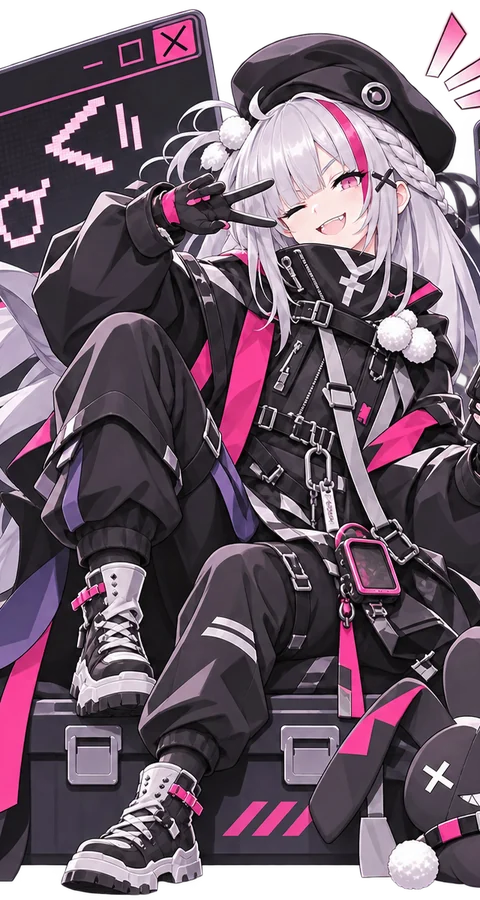
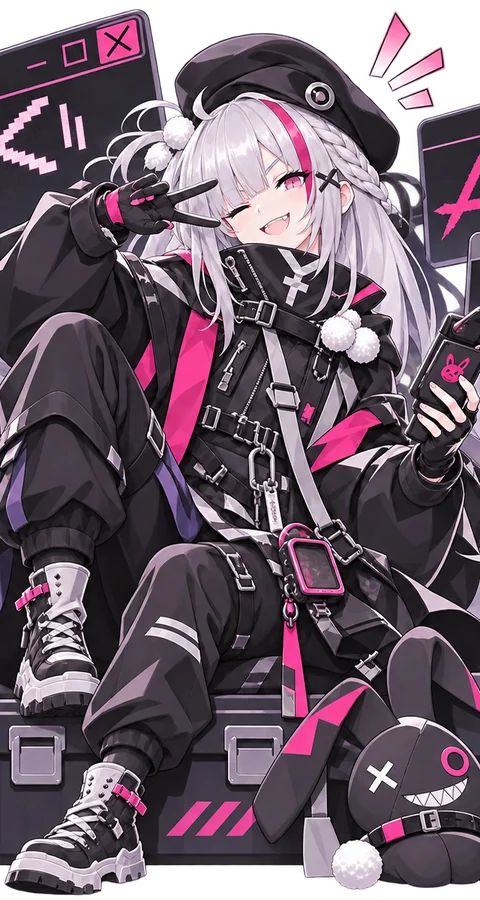
kuroki face adjustment

diff --git a/docs/asset-manifest.js b/docs/asset-manifest.js
@@ -1,2 +1,2 @@
 /* Generated media assets manifest. */
-window.RPG_ASSET_MANIFEST = Object.freeze({"assets/backgrounds/mode-select.webp":{"bytes":378740,"hash":"d1fe7bafb1af"},"assets/boss_hit.m4a":{"bytes":9095,"hash":"e10f92a1c1ca"},"assets/bosses/amethyst-bg.webp":{"bytes":672656,"hash":"e0fff5a359ba"},"assets/bosses/amethyst.webp":{"bytes":270280,"hash":"f54c5364d9aa"},"assets/bosses/carapax-bg.webp":{"bytes":648330,"hash":"6891bb71b05d"},"assets/bosses/carapax.webp":{"bytes":177726,"hash":"bcb518d2b937"},"assets/bosses/ourox-bg.webp":{"bytes":623516,"hash":"f021f2298dec"},"assets/bosses/ourox.webp":{"bytes":225664,"hash":"a54e6c9958cc"},"assets/bosses/practice-bg.webp":{"bytes":153438,"hash":"3945418f2ab3"},"assets/bosses/practice.webp":{"bytes":202430,"hash":"46c9a1df9bc6"},"assets/bosses/sirocco-bg.webp":{"bytes":560602,"hash":"296f1bd23c27"},"assets/bosses/sirocco.webp":{"bytes":288292,"hash":"df37612c3173"},"assets/bosses/sporemaw-bg.webp":{"bytes":824250,"hash":"8b6f7f5a3413"},"assets/bosses/sporemaw.webp":{"bytes":215968,"hash":"33574a55bc5c"},"assets/bosses/tutorial-bg.webp":{"bytes":194212,"hash":"27f355bafc81"},"assets/bosses/tutorial.webp":{"bytes":159946,"hash":"c6bbf3409180"},"assets/card_themes/crimson.webp":{"bytes":38572,"hash":"5be48850718b"},"assets/card_themes/forest.webp":{"bytes":39694,"hash":"7eab83e086c8"},"assets/card_themes/navy.webp":{"bytes":36980,"hash":"7030992ba690"},"assets/card_themes/violet.webp":{"bytes":44098,"hash":"f17d39411803"},"assets/characters/mc.webp":{"bytes":89040,"hash":"c2e8b1f629ab"},"assets/deployment/alden.webp":{"bytes":59386,"hash":"a123491e6bdc"},"assets/deployment/anodyne.webp":{"bytes":75696,"hash":"668d8d7c33fb"},"assets/deployment/aveline.webp":{"bytes":132064,"hash":"b1671317edda"},"assets/deployment/cassian.webp":{"bytes":149982,"hash":"2b0d99dfcd49"},"assets/deployment/crossbow.webp":{"bytes":94458,"hash":"cb7b3d05b752"},"assets/deployment/elise.webp":{"bytes":71700,"hash":"0144be119cdd"},"assets/deployment/hexaxe.webp":{"bytes":119120,"hash":"493720685c69"},"assets/deployment/hound.webp":{"bytes":143986,"hash":"2a1cd427ac30"},"assets/deployment/isolde.webp":{"bytes":109082,"hash":"2f5cd9a57654"},"assets/deployment/kade.webp":{"bytes":50310,"hash":"c9a33ca89aba"},"assets/deployment/kurone.webp":{"bytes":116956,"hash":"97053cfcad8d"},"assets/deployment/livia.webp":{"bytes":71206,"hash":"5f47b63bb5e6"},"assets/deployment/lupa.webp":{"bytes":167628,"hash":"ef524363c1bf"},"assets/deployment/mira.webp":{"bytes":81046,"hash":"a14520b77df5"},"assets/deployment/nitrate.webp":{"bytes":122822,"hash":"98a760e59279"},"assets/deployment/nora.webp":{"bytes":75908,"hash":"28c5ca9ec6bd"},"assets/deployment/seraphine.webp":{"bytes":104458,"hash":"9661549b1d3a"},"assets/deployment/shield.webp":{"bytes":78518,"hash":"aec60021e8b9"},"assets/deployment/tavi.webp":{"bytes":171974,"hash":"b2c79579386a"},"assets/deployment/vern.webp":{"bytes":60412,"hash":"a1322a73ed31"},"assets/deployment/vex.webp":{"bytes":65032,"hash":"3c4dad6663eb"},"assets/emblems/rift.webp":{"bytes":73766,"hash":"cd3e0fa42787"},"assets/emblems/valcrest.webp":{"bytes":69484,"hash":"8ee38f99d24c"},"assets/emblems/vesper.webp":{"bytes":67698,"hash":"b10819ae0fbb"},"assets/player_hit.m4a":{"bytes":9747,"hash":"96cdd53a2246"},"assets/profile-icons/alden.webp":{"bytes":23276,"hash":"70378cef807f"},"assets/profile-icons/anodyne.webp":{"bytes":35250,"hash":"5829fcd035a3"},"assets/profile-icons/aveline.webp":{"bytes":38126,"hash":"e761cd5bbdba"},"assets/profile-icons/cassian.webp":{"bytes":34184,"hash":"60fa7942a678"},"assets/profile-icons/crossbow.webp":{"bytes":126392,"hash":"4774ce058032"},"assets/profile-icons/elise.webp":{"bytes":31226,"hash":"30ed08254db5"},"assets/profile-icons/hexaxe.webp":{"bytes":35304,"hash":"aaad1295b4a0"},"assets/profile-icons/hound.webp":{"bytes":38700,"hash":"328a20c587bc"},"assets/profile-icons/isolde.webp":{"bytes":40086,"hash":"8fb794950e64"},"assets/profile-icons/kade.webp":{"bytes":19370,"hash":"3c0d04cfb439"},"assets/profile-icons/kurone.webp":{"bytes":21198,"hash":"9e4030de8e32"},"assets/profile-icons/livia.webp":{"bytes":25868,"hash":"e5effd075f8b"},"assets/profile-icons/lupa.webp":{"bytes":44836,"hash":"3044521d2981"},"assets/profile-icons/mc.webp":{"bytes":17150,"hash":"a54fd159b470"},"assets/profile-icons/mira.webp":{"bytes":35536,"hash":"9466107c0981"},"assets/profile-icons/nitrate.webp":{"bytes":61118,"hash":"9783de617fcc"},"assets/profile-icons/nora.webp":{"bytes":32130,"hash":"e6c6b90736e9"},"assets/profile-icons/seraphine.webp":{"bytes":32156,"hash":"8a5cf8bd2f34"},"assets/profile-icons/shield.webp":{"bytes":44740,"hash":"7a119c6f9bea"},"assets/profile-icons/tavi.webp":{"bytes":45416,"hash":"2d52fe924ee0"},"assets/profile-icons/vern.webp":{"bytes":24004,"hash":"d22e30124b52"},"assets/profile-icons/vex.webp":{"bytes":22430,"hash":"c5be6b3df3df"},"assets/recruitment/alden.webp":{"bytes":142256,"hash":"142c6775df71"},"assets/recruitment/anodyne.webp":{"bytes":201626,"hash":"f31b87184620"},"assets/recruitment/aveline.webp":{"bytes":330296,"hash":"bc709b98fe8f"},"assets/recruitment/cassian.webp":{"bytes":509752,"hash":"92817e48f9e5"},"assets/recruitment/crossbow.webp":{"bytes":272598,"hash":"6d109b9d152a"},"assets/recruitment/elise.webp":{"bytes":160944,"hash":"f066868e74bc"},"assets/recruitment/hexaxe.webp":{"bytes":399796,"hash":"6b09c21bcf66"},"assets/recruitment/hound.webp":{"bytes":490756,"hash":"5a6e7427ff8a"},"assets/recruitment/isolde.webp":{"bytes":249770,"hash":"8a34c5752d32"},"assets/recruitment/kade.webp":{"bytes":111058,"hash":"0c9e4fef856b"},"assets/recruitment/kurone.webp":{"bytes":334716,"hash":"195e541e4b73"},"assets/recruitment/livia.webp":{"bytes":167094,"hash":"06e360fb668c"},"assets/recruitment/lupa.webp":{"bytes":681758,"hash":"c439cac6227a"},"assets/recruitment/mira.webp":{"bytes":185866,"hash":"4a7a8e63a9d1"},"assets/recruitment/nitrate.webp":{"bytes":1248524,"hash":"1997db2ececf"},"assets/recruitment/nora.webp":{"bytes":166208,"hash":"4e05900aaf9c"},"assets/recruitment/seraphine.webp":{"bytes":241596,"hash":"3d0aa01b33b4"},"assets/recruitment/shield.webp":{"bytes":253572,"hash":"048df55a7f22"},"assets/recruitment/tavi.webp":{"bytes":638140,"hash":"cb84820bd756"},"assets/recruitment/vern.webp":{"bytes":141034,"hash":"9a7aef4dd496"},"assets/recruitment/vex.webp":{"bytes":148842,"hash":"65dcb1d83123"},"assets/stickers/kurone-angry.webp":{"bytes":35112,"hash":"250f1b562090"},"icon01.webp":{"bytes":37136,"hash":"ec498bbc53cb"},"icon02.webp":{"bytes":30516,"hash":"ad7209abc5fd"},"story/audio/ch1-battle.webm":{"bytes":1207103,"hash":"4db1352aabc6"},"story/images/banner-rift.webp":{"bytes":388014,"hash":"fd3fbc8292ec"},"story/images/banner-valcrest.webp":{"bytes":401088,"hash":"9123ef23bbfc"},"story/images/banner-vesper.webp":{"bytes":311414,"hash":"946877314246"},"story/images/conquest-world.webp":{"bytes":409166,"hash":"b4b67894523b"},"story/images/map-placeholder.svg":{"bytes":2766,"hash":"3a3612d98fd7"},"story/images/placeholder-01.svg":{"bytes":761,"hash":"32eb46f43d05"},"story/images/placeholder-02.svg":{"bytes":761,"hash":"7a7fc63d15fc"},"story/images/placeholder-03.svg":{"bytes":761,"hash":"e912d7380321"},"story/images/placeholder-04.svg":{"bytes":761,"hash":"869c68b6d95d"}});
+window.RPG_ASSET_MANIFEST = Object.freeze({"assets/backgrounds/mode-select.webp":{"bytes":378740,"hash":"d1fe7bafb1af"},"assets/boss_hit.m4a":{"bytes":9095,"hash":"e10f92a1c1ca"},"assets/bosses/amethyst-bg.webp":{"bytes":672656,"hash":"e0fff5a359ba"},"assets/bosses/amethyst.webp":{"bytes":270280,"hash":"f54c5364d9aa"},"assets/bosses/carapax-bg.webp":{"bytes":648330,"hash":"6891bb71b05d"},"assets/bosses/carapax.webp":{"bytes":177726,"hash":"bcb518d2b937"},"assets/bosses/ourox-bg.webp":{"bytes":623516,"hash":"f021f2298dec"},"assets/bosses/ourox.webp":{"bytes":225664,"hash":"a54e6c9958cc"},"assets/bosses/practice-bg.webp":{"bytes":153438,"hash":"3945418f2ab3"},"assets/bosses/practice.webp":{"bytes":202430,"hash":"46c9a1df9bc6"},"assets/bosses/sirocco-bg.webp":{"bytes":560602,"hash":"296f1bd23c27"},"assets/bosses/sirocco.webp":{"bytes":288292,"hash":"df37612c3173"},"assets/bosses/sporemaw-bg.webp":{"bytes":824250,"hash":"8b6f7f5a3413"},"assets/bosses/sporemaw.webp":{"bytes":215968,"hash":"33574a55bc5c"},"assets/bosses/tutorial-bg.webp":{"bytes":194212,"hash":"27f355bafc81"},"assets/bosses/tutorial.webp":{"bytes":159946,"hash":"c6bbf3409180"},"assets/card_themes/crimson.webp":{"bytes":38572,"hash":"5be48850718b"},"assets/card_themes/forest.webp":{"bytes":39694,"hash":"7eab83e086c8"},"assets/card_themes/navy.webp":{"bytes":36980,"hash":"7030992ba690"},"assets/card_themes/violet.webp":{"bytes":44098,"hash":"f17d39411803"},"assets/characters/mc.webp":{"bytes":89040,"hash":"c2e8b1f629ab"},"assets/deployment/alden.webp":{"bytes":59386,"hash":"a123491e6bdc"},"assets/deployment/anodyne.webp":{"bytes":75696,"hash":"668d8d7c33fb"},"assets/deployment/aveline.webp":{"bytes":132064,"hash":"b1671317edda"},"assets/deployment/cassian.webp":{"bytes":149982,"hash":"2b0d99dfcd49"},"assets/deployment/crossbow.webp":{"bytes":94458,"hash":"cb7b3d05b752"},"assets/deployment/elise.webp":{"bytes":71700,"hash":"0144be119cdd"},"assets/deployment/hexaxe.webp":{"bytes":119120,"hash":"493720685c69"},"assets/deployment/hound.webp":{"bytes":143986,"hash":"2a1cd427ac30"},"assets/deployment/isolde.webp":{"bytes":109082,"hash":"2f5cd9a57654"},"assets/deployment/kade.webp":{"bytes":50310,"hash":"c9a33ca89aba"},"assets/deployment/kurone.webp":{"bytes":121944,"hash":"104e81598303"},"assets/deployment/livia.webp":{"bytes":71206,"hash":"5f47b63bb5e6"},"assets/deployment/lupa.webp":{"bytes":167628,"hash":"ef524363c1bf"},"assets/deployment/mira.webp":{"bytes":81046,"hash":"a14520b77df5"},"assets/deployment/nitrate.webp":{"bytes":122822,"hash":"98a760e59279"},"assets/deployment/nora.webp":{"bytes":75908,"hash":"28c5ca9ec6bd"},"assets/deployment/seraphine.webp":{"bytes":104458,"hash":"9661549b1d3a"},"assets/deployment/shield.webp":{"bytes":78518,"hash":"aec60021e8b9"},"assets/deployment/tavi.webp":{"bytes":171974,"hash":"b2c79579386a"},"assets/deployment/vern.webp":{"bytes":60412,"hash":"a1322a73ed31"},"assets/deployment/vex.webp":{"bytes":65032,"hash":"3c4dad6663eb"},"assets/emblems/rift.webp":{"bytes":73766,"hash":"cd3e0fa42787"},"assets/emblems/valcrest.webp":{"bytes":69484,"hash":"8ee38f99d24c"},"assets/emblems/vesper.webp":{"bytes":67698,"hash":"b10819ae0fbb"},"assets/player_hit.m4a":{"bytes":9747,"hash":"96cdd53a2246"},"assets/profile-icons/alden.webp":{"bytes":23276,"hash":"70378cef807f"},"assets/profile-icons/anodyne.webp":{"bytes":35250,"hash":"5829fcd035a3"},"assets/profile-icons/aveline.webp":{"bytes":38126,"hash":"e761cd5bbdba"},"assets/profile-icons/cassian.webp":{"bytes":34184,"hash":"60fa7942a678"},"assets/profile-icons/crossbow.webp":{"bytes":126392,"hash":"4774ce058032"},"assets/profile-icons/elise.webp":{"bytes":31226,"hash":"30ed08254db5"},"assets/profile-icons/hexaxe.webp":{"bytes":35304,"hash":"aaad1295b4a0"},"assets/profile-icons/hound.webp":{"bytes":38700,"hash":"328a20c587bc"},"assets/profile-icons/isolde.webp":{"bytes":40086,"hash":"8fb794950e64"},"assets/profile-icons/kade.webp":{"bytes":19370,"hash":"3c0d04cfb439"},"assets/profile-icons/kurone.webp":{"bytes":21898,"hash":"8313b51eb3e6"},"assets/profile-icons/livia.webp":{"bytes":25868,"hash":"e5effd075f8b"},"assets/profile-icons/lupa.webp":{"bytes":44836,"hash":"3044521d2981"},"assets/profile-icons/mc.webp":{"bytes":17150,"hash":"a54fd159b470"},"assets/profile-icons/mira.webp":{"bytes":35536,"hash":"9466107c0981"},"assets/profile-icons/nitrate.webp":{"bytes":61118,"hash":"9783de617fcc"},"assets/profile-icons/nora.webp":{"bytes":32130,"hash":"e6c6b90736e9"},"assets/profile-icons/seraphine.webp":{"bytes":32156,"hash":"8a5cf8bd2f34"},"assets/profile-icons/shield.webp":{"bytes":44740,"hash":"7a119c6f9bea"},"assets/profile-icons/tavi.webp":{"bytes":45416,"hash":"2d52fe924ee0"},"assets/profile-icons/vern.webp":{"bytes":24004,"hash":"d22e30124b52"},"assets/profile-icons/vex.webp":{"bytes":22430,"hash":"c5be6b3df3df"},"assets/recruitment/alden.webp":{"bytes":142256,"hash":"142c6775df71"},"assets/recruitment/anodyne.webp":{"bytes":201626,"hash":"f31b87184620"},"assets/recruitment/aveline.webp":{"bytes":330296,"hash":"bc709b98fe8f"},"assets/recruitment/cassian.webp":{"bytes":509752,"hash":"92817e48f9e5"},"assets/recruitment/crossbow.webp":{"bytes":272598,"hash":"6d109b9d152a"},"assets/recruitment/elise.webp":{"bytes":160944,"hash":"f066868e74bc"},"assets/recruitment/hexaxe.webp":{"bytes":399796,"hash":"6b09c21bcf66"},"assets/recruitment/hound.webp":{"bytes":490756,"hash":"5a6e7427ff8a"},"assets/recruitment/isolde.webp":{"bytes":249770,"hash":"8a34c5752d32"},"assets/recruitment/kade.webp":{"bytes":111058,"hash":"0c9e4fef856b"},"assets/recruitment/kurone.webp":{"bytes":334716,"hash":"195e541e4b73"},"assets/recruitment/livia.webp":{"bytes":167094,"hash":"06e360fb668c"},"assets/recruitment/lupa.webp":{"bytes":681758,"hash":"c439cac6227a"},"assets/recruitment/mira.webp":{"bytes":185866,"hash":"4a7a8e63a9d1"},"assets/recruitment/nitrate.webp":{"bytes":1248524,"hash":"1997db2ececf"},"assets/recruitment/nora.webp":{"bytes":166208,"hash":"4e05900aaf9c"},"assets/recruitment/seraphine.webp":{"bytes":241596,"hash":"3d0aa01b33b4"},"assets/recruitment/shield.webp":{"bytes":253572,"hash":"048df55a7f22"},"assets/recruitment/tavi.webp":{"bytes":638140,"hash":"cb84820bd756"},"assets/recruitment/vern.webp":{"bytes":141034,"hash":"9a7aef4dd496"},"assets/recruitment/vex.webp":{"bytes":148842,"hash":"65dcb1d83123"},"assets/stickers/kurone-angry.webp":{"bytes":35112,"hash":"250f1b562090"},"icon01.webp":{"bytes":37136,"hash":"ec498bbc53cb"},"icon02.webp":{"bytes":30516,"hash":"ad7209abc5fd"},"story/audio/ch1-battle.webm":{"bytes":1207103,"hash":"4db1352aabc6"},"story/images/banner-rift.webp":{"bytes":388014,"hash":"fd3fbc8292ec"},"story/images/banner-valcrest.webp":{"bytes":401088,"hash":"9123ef23bbfc"},"story/images/banner-vesper.webp":{"bytes":311414,"hash":"946877314246"},"story/images/conquest-world.webp":{"bytes":409166,"hash":"b4b67894523b"},"story/images/map-placeholder.svg":{"bytes":2766,"hash":"3a3612d98fd7"},"story/images/placeholder-01.svg":{"bytes":761,"hash":"32eb46f43d05"},"story/images/placeholder-02.svg":{"bytes":761,"hash":"7a7fc63d15fc"},"story/images/placeholder-03.svg":{"bytes":761,"hash":"e912d7380321"},"story/images/placeholder-04.svg":{"bytes":761,"hash":"869c68b6d95d"}});

diff --git a/docs/collection.js b/docs/collection.js
@@ -11,7 +11,7 @@
  const esc=s=>String(s??'').replace(/[&<>"']/g,c=>({'&':'&amp;','<':'&lt;','>':'&gt;','"':'&quot;',"'":'&#39;'}[c]));
  const safeId=s=>typeof s==='string'&&/^[a-z][a-z0-9_]{0,39}$/.test(s);
  // Face centres [x%, y%] in the 480×900 deployment art (same values as the recruitment lineup).
- const FACE={alden:[45.2,10.7],anodyne:[46.7,9.0],aveline:[59.8,10.2],cassian:[59.4,19.9],crossbow:[51.2,10.7],elise:[48.5,12.2],hexaxe:[51.7,10.0],hound:[65.2,33.7],isolde:[50.6,14.3],kade:[49.4,10.0],livia:[44.2,14.7],lupa:[79.2,20.0],mira:[51.7,10.2],nitrate:[40.8,19.7],nora:[48.1,12.4],seraphine:[57.3,9.9],shield:[38.5,12.2],tavi:[52.5,21.3],vern:[39.8,15.9],vex:[56.2,9.7],kurone:[49.5,22.1]};
+ const FACE={alden:[45.2,10.7],anodyne:[46.7,9.0],aveline:[59.8,10.2],cassian:[59.4,19.9],crossbow:[51.2,10.7],elise:[48.5,12.2],hexaxe:[51.7,10.0],hound:[65.2,33.7],isolde:[50.6,14.3],kade:[49.4,10.0],livia:[44.2,14.7],lupa:[79.2,20.0],mira:[51.7,10.2],nitrate:[40.8,19.7],nora:[48.1,12.4],seraphine:[57.3,9.9],shield:[38.5,12.2],tavi:[52.5,21.3],vern:[39.8,15.9],vex:[56.2,9.7],kurone:[55.0,22.8]};
  const NAMES=['NONE','WHITE','AZURE','VIOLET','GOLD'];
  let player=null,code='',catalog=[],filter='all',ownedOnly=false,current=-1,lastFocus=null,openId='',working=false,armed=-1,armTimer=0,hover=null;
  const JP=['なし','白光','蒼光','紫光','金光'];

diff --git a/docs/recruitment-reveal.js b/docs/recruitment-reveal.js
@@ -17,7 +17,7 @@
  // Lineup cards use the portrait full-body art (assets/deployment, 480×900). Face centres
  // [x%, y%] were measured by matching each profile-icon portrait against that art, so the
  // crop can always keep the face in view. Characters not listed fall back to [50, 14].
- const FACE={alden:[45.2,10.7],anodyne:[46.7,9.0],aveline:[59.8,10.2],cassian:[59.4,19.9],crossbow:[51.2,10.7],elise:[48.5,12.2],hexaxe:[51.7,10.0],hound:[65.2,33.7],isolde:[50.6,14.3],kade:[49.4,10.0],livia:[44.2,14.7],lupa:[79.2,20.0],mira:[51.7,10.2],nitrate:[40.8,19.7],nora:[48.1,12.4],seraphine:[57.3,9.9],shield:[38.5,12.2],tavi:[52.5,21.3],vern:[39.8,15.9],vex:[56.2,9.7],kurone:[49.5,22.1]};
+ const FACE={alden:[45.2,10.7],anodyne:[46.7,9.0],aveline:[59.8,10.2],cassian:[59.4,19.9],crossbow:[51.2,10.7],elise:[48.5,12.2],hexaxe:[51.7,10.0],hound:[65.2,33.7],isolde:[50.6,14.3],kade:[49.4,10.0],livia:[44.2,14.7],lupa:[79.2,20.0],mira:[51.7,10.2],nitrate:[40.8,19.7],nora:[48.1,12.4],seraphine:[57.3,9.9],shield:[38.5,12.2],tavi:[52.5,21.3],vern:[39.8,15.9],vex:[56.2,9.7],kurone:[55.0,22.8]};
  const faceOf=id=>FACE[id]||[50,14];
  const deployArt=id=>/^[a-z][a-z0-9_]{0,39}$/.test(id)&&id!=='unknown'?`assets/deployment/${id}.webp`:null;
  const safeArt=p=>typeof p==='string'&&/^assets\/recruitment\/[a-z0-9_-]+\.webp$/.test(p);

diff --git a/docs/collection.html b/docs/collection.html
@@ -40,5 +40,5 @@
  <div class="cl-d-nav"><button type="button" class="cl-d-btn" data-step="-1" aria-label="Previous operator"><svg viewBox="0 0 24 24" aria-hidden="true"><path d="M15 5l-7 7 7 7"/></svg></button><span id="dIndex">1 / 1</span><button type="button" class="cl-d-btn" data-step="1" aria-label="Next operator"><svg viewBox="0 0 24 24" aria-hidden="true"><path d="M9 5l7 7-7 7"/></svg></button></div>
 </section>
 
-<script src="student-links-v86.js?v=86" defer></script><script src="gacha-catalog.js?v=106.0"></script><script src="operator-passives.js?v=147.0"></script><script src="aura-core.js?v=148.6"></script><script src="aura-fx.js?v=2"></script><script type="module">await import('./online-spark.js?v=148.9');const s=document.createElement('script');s.src='collection.js?v=6';document.body.append(s);</script>
+<script src="student-links-v86.js?v=86" defer></script><script src="gacha-catalog.js?v=106.0"></script><script src="operator-passives.js?v=147.0"></script><script src="aura-core.js?v=148.6"></script><script src="aura-fx.js?v=2"></script><script type="module">await import('./online-spark.js?v=148.9');const s=document.createElement('script');s.src='collection.js?v=7';document.body.append(s);</script>
 </body></html>

diff --git a/docs/battle-fx.js b/docs/battle-fx.js
@@ -10,7 +10,7 @@
   const reduced=()=>!!window.matchMedia?.('(prefers-reduced-motion: reduce)')?.matches;
   const RULES=()=>window.RPG_OPERATOR_PASSIVES?.RULES||{};
   // Face points (percent of deployment art) used to frame 6★ cut-ins.
-  const FACE={alden:[45.2,10.7],anodyne:[46.7,9.0],aveline:[59.8,10.2],cassian:[59.4,19.9],crossbow:[51.2,10.7],elise:[48.5,12.2],hexaxe:[51.7,10.0],hound:[65.2,33.7],isolde:[50.6,14.3],kade:[49.4,10.0],livia:[44.2,14.7],lupa:[79.2,20.0],mira:[51.7,10.2],nitrate:[40.8,19.7],nora:[48.1,12.4],seraphine:[57.3,9.9],shield:[38.5,12.2],tavi:[52.5,21.3],vern:[39.8,15.9],vex:[56.2,9.7],kurone:[49.5,22.1]};
+  const FACE={alden:[45.2,10.7],anodyne:[46.7,9.0],aveline:[59.8,10.2],cassian:[59.4,19.9],crossbow:[51.2,10.7],elise:[48.5,12.2],hexaxe:[51.7,10.0],hound:[65.2,33.7],isolde:[50.6,14.3],kade:[49.4,10.0],livia:[44.2,14.7],lupa:[79.2,20.0],mira:[51.7,10.2],nitrate:[40.8,19.7],nora:[48.1,12.4],seraphine:[57.3,9.9],shield:[38.5,12.2],tavi:[52.5,21.3],vern:[39.8,15.9],vex:[56.2,9.7],kurone:[55.0,22.8]};
   // 4★ operators (and the default character) share the standard strike.
   const THEMES={
     std:      {kind:'std',     c1:'#2cc5f6',c2:'#eafcff',c3:'#0b5f86',bg:'#06202c',band:'#06202c'},

diff --git a/docs/who-am-i.html b/docs/who-am-i.html
@@ -13,7 +13,7 @@
 <link rel="preload" as="image" href="assets/bosses/tutorial-bg.webp">
 <link rel="preload" as="image" href="assets/bosses/tutorial.webp">
 <link rel="preload" as="font" type="font/woff2" href="assets/fonts/ak-roboto-var.woff2" crossorigin>
-<script src="battle-fx.js?v=3" defer></script><script src="kurone-notify.js?v=2" defer></script><script src="aura-fx.js?v=2" defer></script><script src="operator-passives.js?v=147.0"></script><script src="gacha-catalog.js?v=106.0"></script></head>
+<script src="battle-fx.js?v=4" defer></script><script src="kurone-notify.js?v=2" defer></script><script src="aura-fx.js?v=2" defer></script><script src="operator-passives.js?v=147.0"></script><script src="gacha-catalog.js?v=106.0"></script></head>
 <body class="adventure-client tutorial-client tutorial-battle wai-page story-squad-layout">
 <div id="loading" class="tutorial-loading">CONNECTING TO FIREBASE…</div>
 <div class="frame pixel" id="tutorialApp" hidden>

diff --git a/docs/adventure.html b/docs/adventure.html
@@ -1771,7 +1771,7 @@ width:min(600px, calc(100% - 30px));
 <link rel="stylesheet" href="battle-fx.css?v=4">
 <link rel="stylesheet" href="battle-marks.css?v=1"><link rel="stylesheet" href="kurone.css?v=3">
 <link rel="stylesheet" href="aura-fx.css?v=3">
-<script src="battle-fx.js?v=3" defer></script><script src="kurone-notify.js?v=2" defer></script>
+<script src="battle-fx.js?v=4" defer></script><script src="kurone-notify.js?v=2" defer></script>
 <script src="aura-fx.js?v=2" defer></script>
 <link rel="preload" as="image" href="assets/backgrounds/mode-select.webp">
 <link rel="preload" as="font" type="font/woff2" href="assets/fonts/ak-roboto-var.woff2" crossorigin>

diff --git a/docs/recruitment.html b/docs/recruitment.html
@@ -77,7 +77,7 @@
   <script src="student-links-v86.js?v=86.10" defer></script>
   <script src="recruitment-banner-config.js?v=148.9"></script>
   <link rel="stylesheet" href="aura-fx.css?v=3"><script src="aura-fx.js?v=2"></script>
-  <script src="recruitment-reveal.js?v=151"></script>
+  <script src="recruitment-reveal.js?v=152"></script>
   <script src="recruitment-endfield.js?v=1"></script>
   <script type="module">
     await import('./online-spark.js?v=148.9');

diff --git a/docs/recruitment-preview-v84.html b/docs/recruitment-preview-v84.html
@@ -69,7 +69,7 @@
   <canvas id="recruitmentTutorialSpotlight" hidden aria-hidden="true"></canvas>
   <div id="modalRoot"></div>
   <script src="recruitment-banner-config.js?v=148.9"></script>
-  <script src="recruitment-reveal.js?v=151"></script>
+  <script src="recruitment-reveal.js?v=152"></script>
   <script>
   // Preview deliberately does not alter real Adventure Card sessions.
   window.RPG_V68_CONNECTION={connected:true};

diff --git a/docs/recruitment-design-preview.html b/docs/recruitment-design-preview.html
@@ -51,7 +51,7 @@
   </main>
   <div id="modalRoot"></div>
   <script src="gacha-catalog.js"></script><script src="recruitment-banner-config.js?v=148.9"></script>
-  <script src="recruitment-reveal.js?v=151"></script>
+  <script src="recruitment-reveal.js?v=152"></script>
   <script src="recruitment.js?v=75"></script>
 </body>
 </html>
